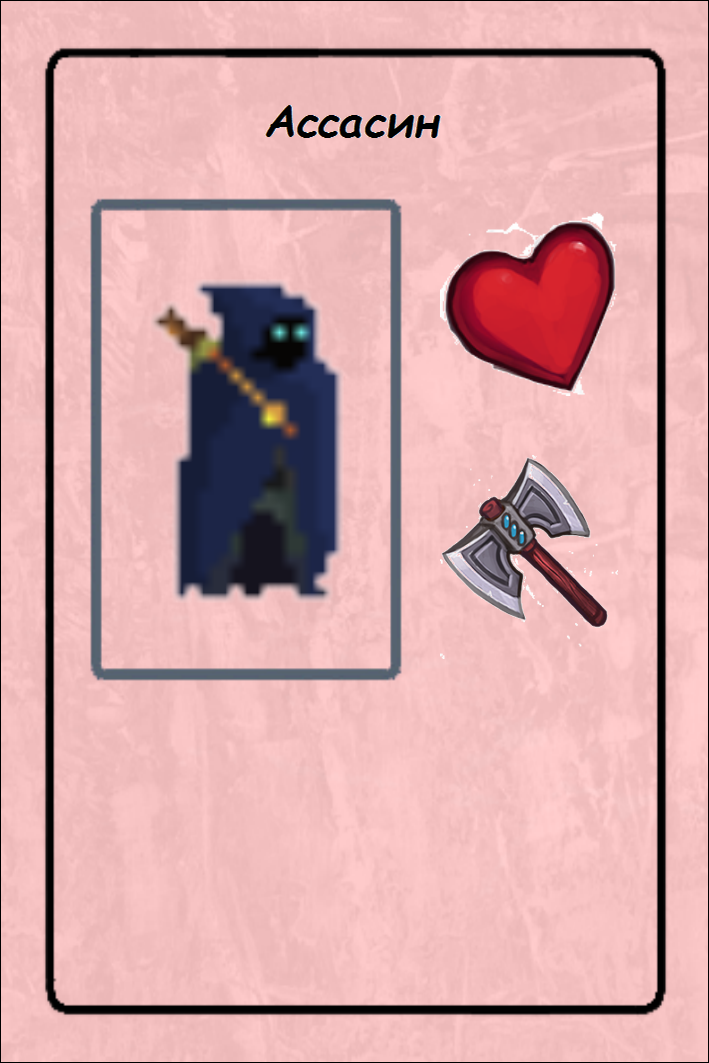
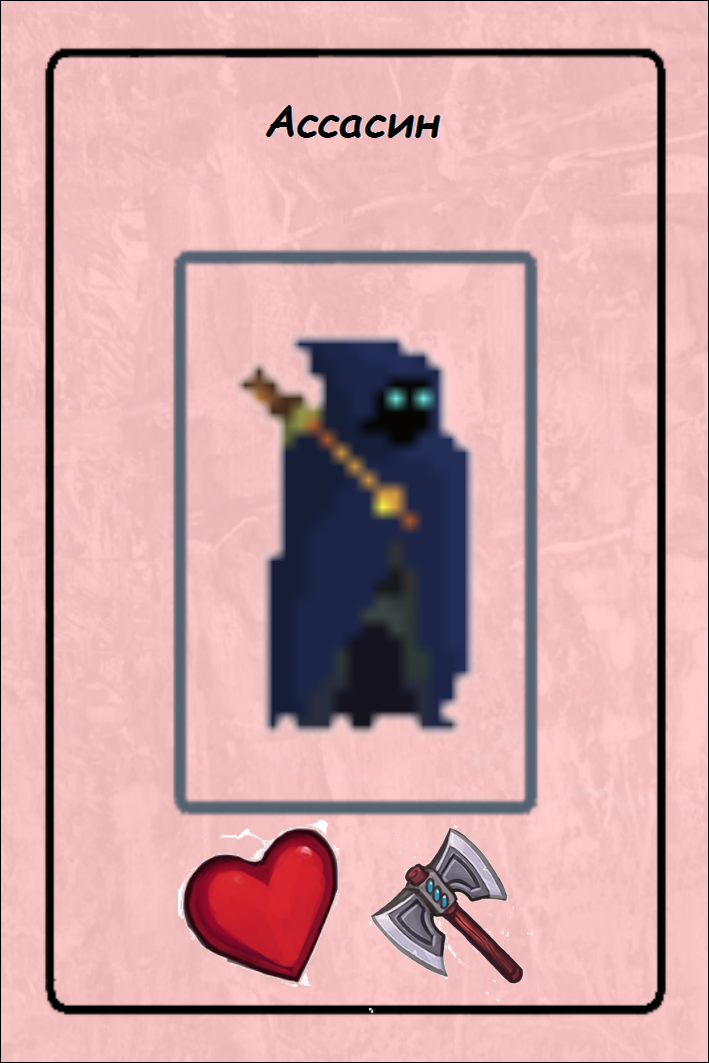
delete passive skill and edit design of card

Changed region(s): [[0.1241, 0.1863, 0.8688, 0.9313]]

diff --git a/models.js b/models.js
@@ -118,11 +118,11 @@ class Container {
             ctx.font = "10px Verdana";
             ctx.fillStyle = "white";
             ctx.strokeStyle = "green";
-            ctx.strokeText(this.object.hp, this.x + this.width * 0.79, this.y + this.height * 0.322, this.width / 12);
-            ctx.fillText(this.object.hp, this.x + this.width * 0.79, this.y + this.height * 0.322, this.width / 12);
+            ctx.strokeText(this.object.hp, this.x + this.width * 0.4, this.y + this.height * 0.884, this.width / 12);
+            ctx.fillText(this.object.hp, this.x + this.width * 0.4, this.y + this.height * 0.884, this.width / 12);
             ctx.strokeStyle = "#c11717";
-            ctx.strokeText(this.object.hp, this.x + this.width * 0.79, this.y + this.height * 0.53, this.width / 12);
-            ctx.fillText(this.object.damage, this.x + this.width * 0.79, this.y + this.height * 0.53, this.width / 12);
+            ctx.strokeText(this.object.damage, this.x + this.width * 0.65, this.y + this.height * 0.884, this.width / 12);
+            ctx.fillText(this.object.damage, this.x + this.width * 0.65, this.y + this.height * 0.884, this.width / 12);
         }
     }
 
@@ -176,11 +176,11 @@ class Container {
             ctx.font = "32px serif";
             ctx.fillStyle = "white";
             ctx.strokeStyle = "green";
-            ctx.strokeText(this.object.hp, ZOOM_CARD_X + ZOOM_CARD_WIDTH - 60, ZOOM_CARD_Y + 133, 20);
-            ctx.fillText(this.object.hp, ZOOM_CARD_X + ZOOM_CARD_WIDTH - 60, ZOOM_CARD_Y + 133, 20);
+            ctx.strokeText(this.object.hp, ZOOM_CARD_X + 113, ZOOM_CARD_Y + ZOOM_CARD_HEIGHT - 50, 20);
+            ctx.fillText(this.object.hp, ZOOM_CARD_X + 113, ZOOM_CARD_Y + ZOOM_CARD_HEIGHT - 50, 20);
             ctx.strokeStyle = "#c11717";
-            ctx.strokeText(this.object.damage, ZOOM_CARD_X + ZOOM_CARD_WIDTH - 60, ZOOM_CARD_Y + 220, 20);
-            ctx.fillText(this.object.damage, ZOOM_CARD_X + ZOOM_CARD_WIDTH - 60, ZOOM_CARD_Y + 220, 20);
+            ctx.strokeText(this.object.damage, ZOOM_CARD_X + 180, ZOOM_CARD_Y + ZOOM_CARD_HEIGHT - 50, 20);
+            ctx.fillText(this.object.damage, ZOOM_CARD_X + 180, ZOOM_CARD_Y + ZOOM_CARD_HEIGHT - 50, 20);
         }
     }
 }

diff --git a/cards.js b/cards.js
@@ -1,8 +1,7 @@
 class Card {
-    constructor(hp, damage, name, passive = null, ) {
+    constructor(hp, damage, name) {
         this.hp = hp;
         this.damage = damage;
-        this.passive = passive;
         this.img = new Image();
         this.img.src = "assets/deck/" + name + ".png"
     }
@@ -10,7 +9,7 @@ class Card {
 
 class Berserk extends Card {
     constructor() {
-        super(8, 3, "berserk", 1);
+        super(8, 3, "berserk");
     }
 }
 
@@ -28,19 +27,19 @@ class Scientist extends Card {
 
 class Paladin extends Card {
     constructor() {
-        super(6, 4, "paladin", 0);
+        super(6, 4, "paladin");
     }
 }
 
 class Shooter extends Card {
     constructor() {
-        super(4, 5, "shooter", 0);
+        super(4, 5, "shooter");
     }
 }
 
 class Fighter extends Card {
     constructor() {
-        super(8, 4, "fighter", 0);
+        super(8, 4, "fighter");
     }
 }
 
@@ -52,13 +51,13 @@ class Homunculus extends Card {
 
 class Priestess extends Card {
     constructor() {
-        super(7, 1, "priestess", 1);
+        super(7, 1, "priestess");
     }
 }
 
 class Vampire extends Card {
     constructor() {
-        super(6, 2, "vampire", 1);
+        super(6, 2, "vampire");
     }
 }
 
@@ -70,13 +69,13 @@ class Assassin extends Card {
 
 class Knight extends Card {
     constructor() {
-        super(10, 3, "knight", 2);
+        super(10, 3, "knight");
     }
 }
 
 class Healer extends Card {
     constructor() {
-        super(15, 1, "healer", 3);
+        super(15, 1, "healer");
     }
 }
 
